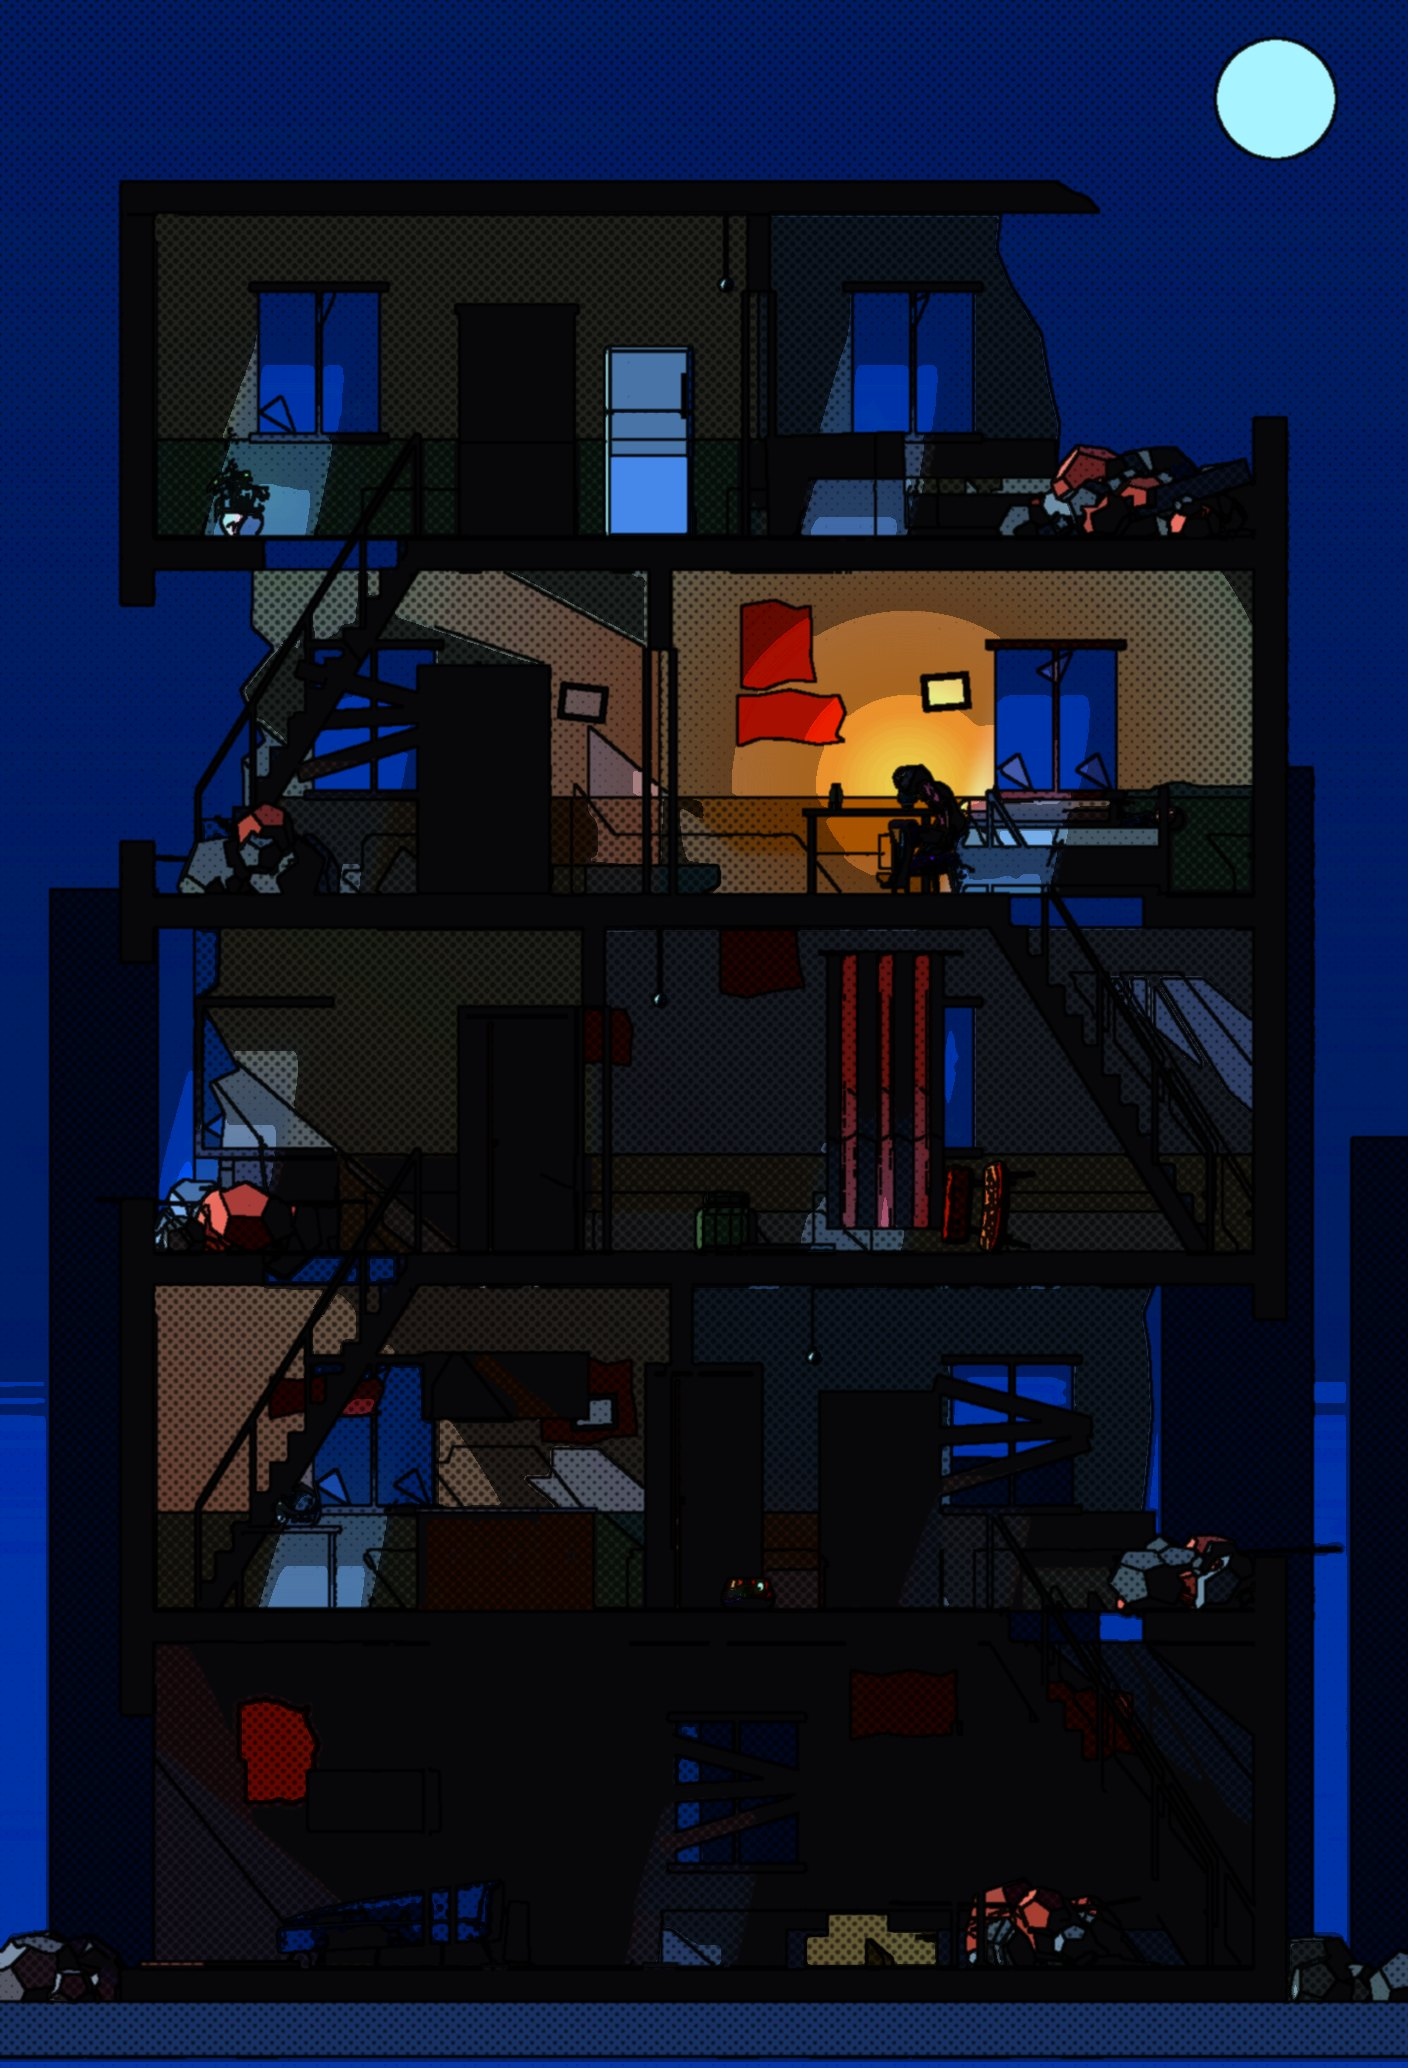
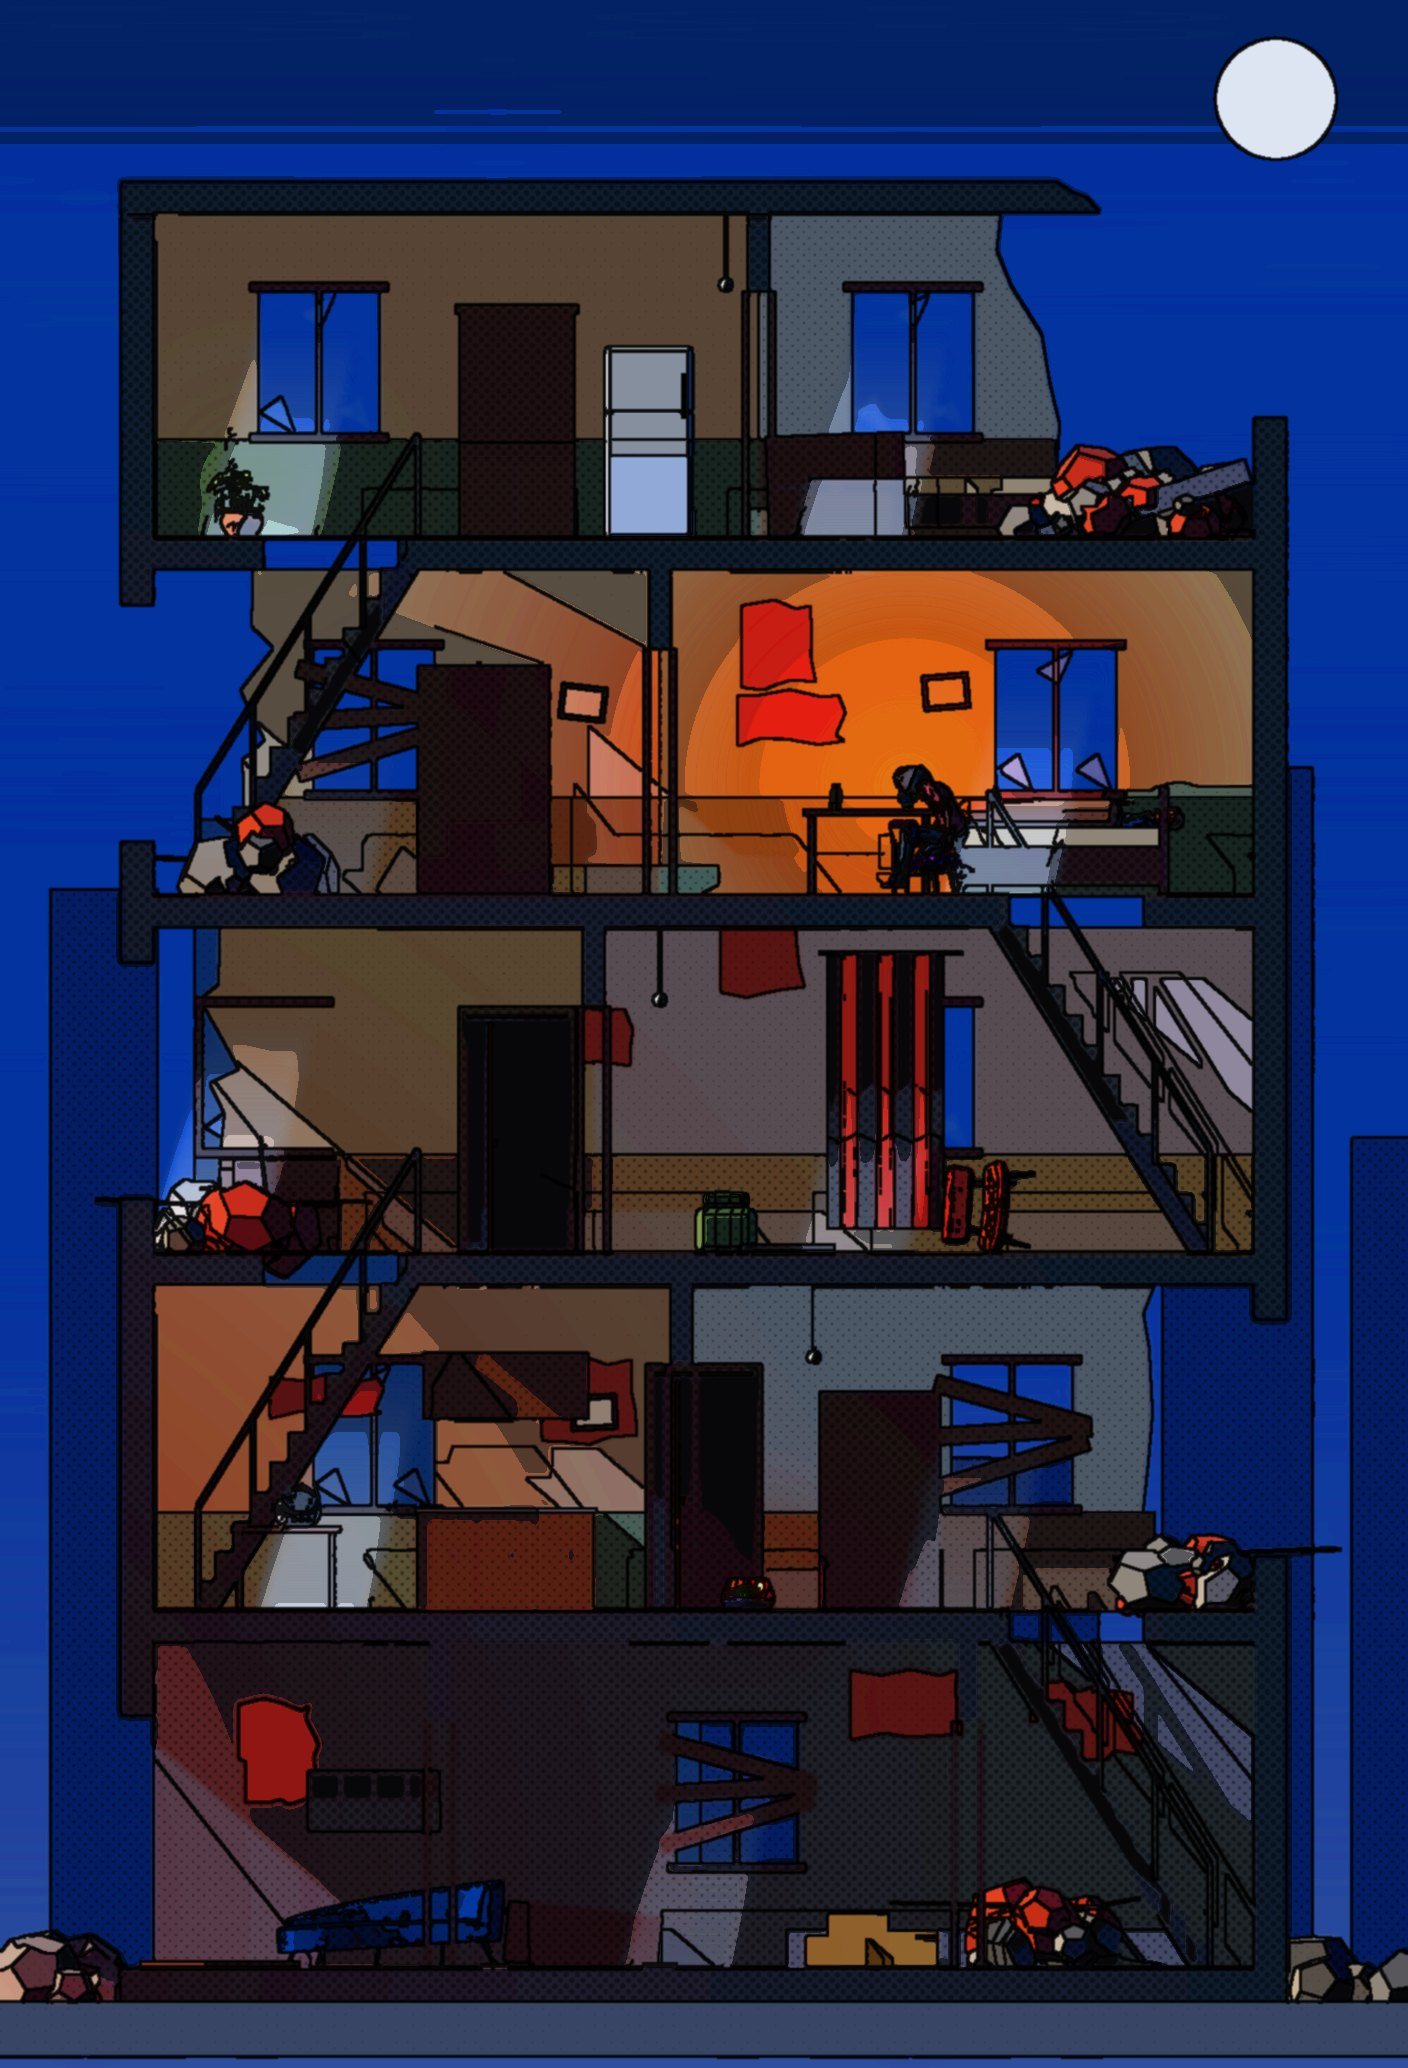
天亮之前：第一關漫畫夜景調亮、修正手電筒光錐在樓外變成方塊
Claude-Session: https://claude.ai/code/session_012Lv6gWQAPaAvqZzYnHc8ne

diff --git a/night/index.html b/night/index.html
@@ -370,7 +370,7 @@ function draw() {
   soldier(); smokeDraw(Math.min(0.05, S.dtLast || 0.016));
   // 光的顏色：手電筒偏暖、探照燈偏冷
   g.save(); g.globalCompositeOperation = 'lighter';
-  if (sh.cone) { g.globalAlpha = 0.16; g.fillStyle = '#ffd9a0'; g.beginPath(); sh.cone.forEach(([x, y], i) => (i ? g.lineTo(x, y) : g.moveTo(x, y))); g.closePath(); g.fill(); }
+  if (sh.cone) { g.save(); g.beginPath(); g.rect(X(-0.15), FY(S.sol.f), X(10.15) - X(-0.15), BASE(S.sol.f) - FY(S.sol.f)); g.clip(); g.globalAlpha = 0.16; g.fillStyle = '#ffd9a0'; g.beginPath(); sh.cone.forEach(([x, y], i) => (i ? g.lineTo(x, y) : g.moveTo(x, y))); g.closePath(); g.fill(); g.restore(); }
   if (sh.beam) { g.globalAlpha = 0.2; g.fillStyle = '#dfe8ff'; g.beginPath(); sh.beam.forEach(([x, y], i) => (i ? g.lineTo(x, y) : g.moveTo(x, y))); g.closePath(); g.fill(); }
   g.restore();
   dust();
